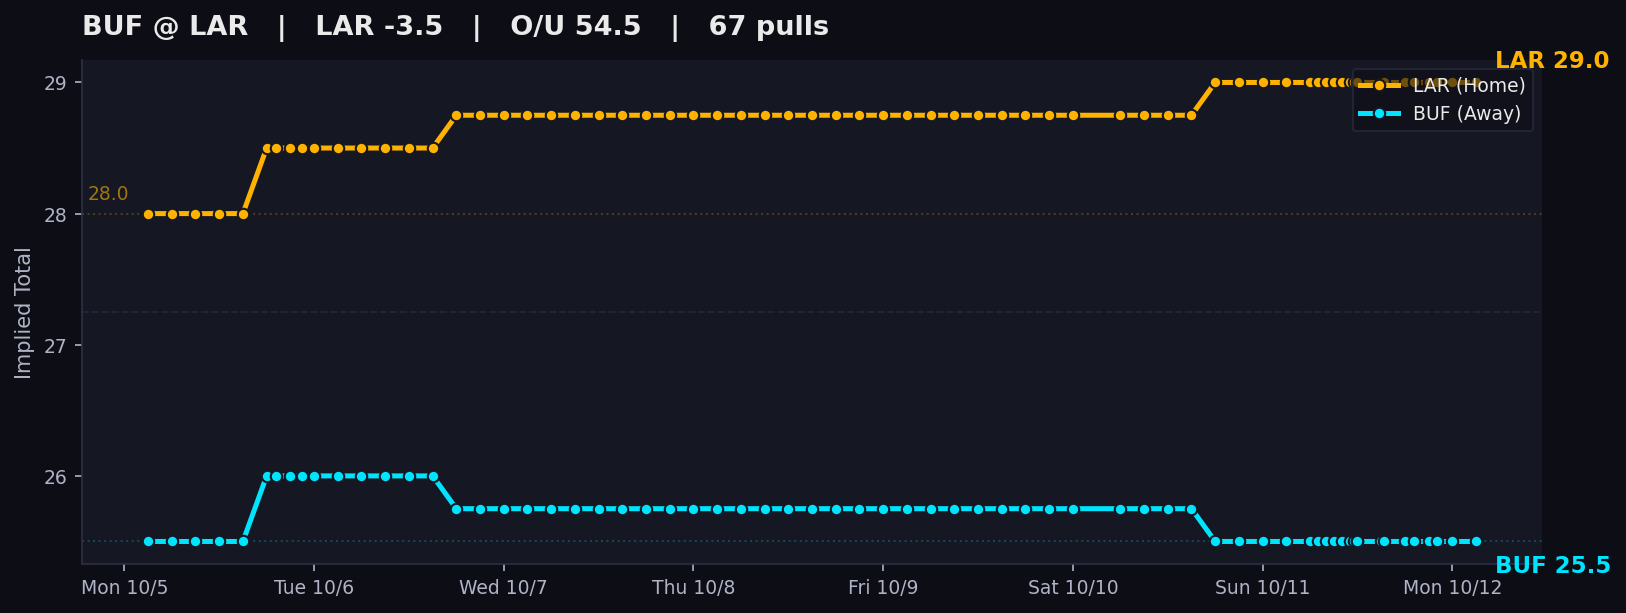
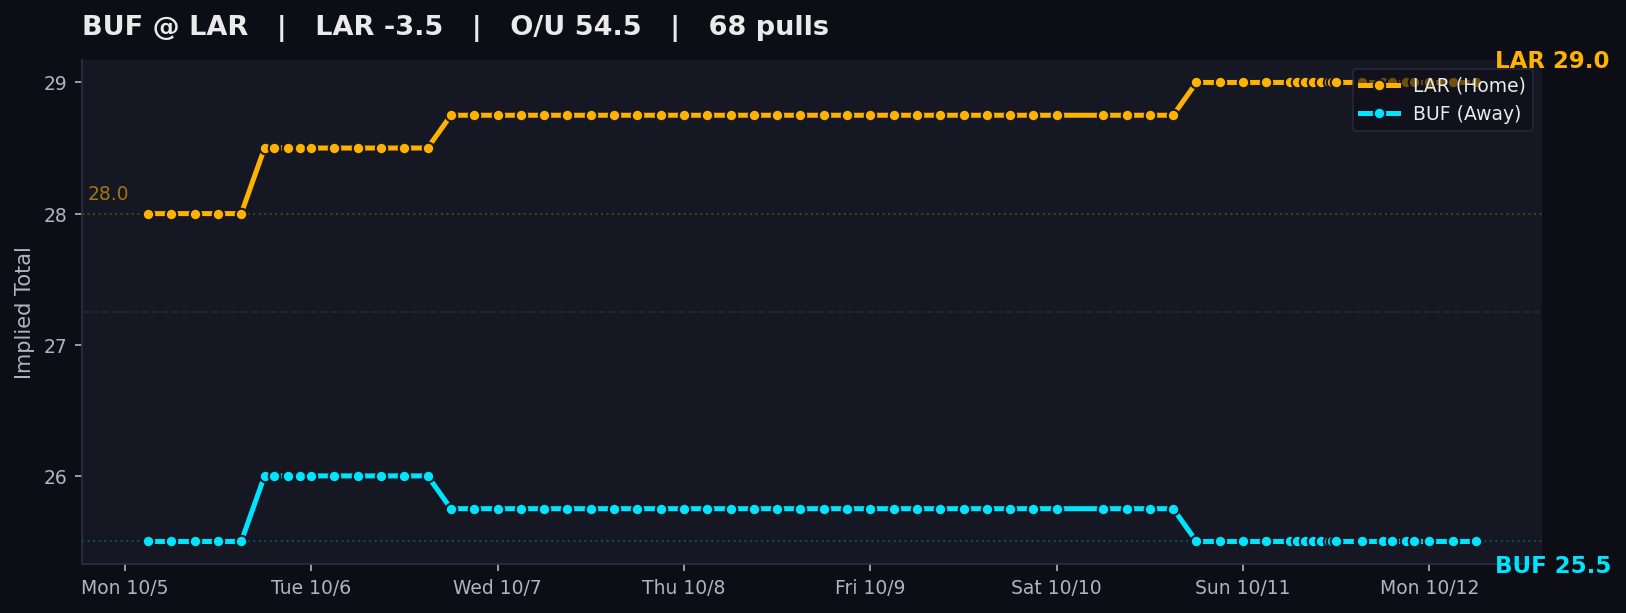
auto: local tracker sync

diff --git a/charts/index.html b/charts/index.html
@@ -311,7 +311,7 @@
     </div>
     <p class='sub'>
       DraftKings main lines &middot; Pinnacle cross-check &middot; Updated by the local Mac tracker<br>
-      Page rendered Mon Oct 12, 2026 3:00 AM CDT &middot; 1081 valid chart dots &middot; 1182 total pull attempts
+      Page rendered Mon Oct 12, 2026 6:00 AM CDT &middot; 1082 valid chart dots &middot; 1183 total pull attempts
       <span class='legend-box'>
         <span class='dot-teal'>● Away implied total</span>
         <span class='dot-amber'>● Home implied total</span>
@@ -324,9 +324,9 @@
     </details>
   </header>
 
-  <div id='feed-banner' class='alert-banner healthy' data-banner-kind='healthy' data-feed-ts='2026-10-12T08:00:01.472347+00:00' data-feed-ts-label='Mon Oct 12, 3:00 AM CDT'>
+  <div id='feed-banner' class='alert-banner healthy' data-banner-kind='healthy' data-feed-ts='2026-10-12T11:00:01.186177+00:00' data-feed-ts-label='Mon Oct 12, 6:00 AM CDT'>
             <span class='status-dot'></span>
-            <b>Feed Healthy:</b> All 1 open markets updated. 14 games have started and is showing its final verified pregame line. Board age based on oldest open market: <span id='feed-time'>Mon Oct 12, 3:00 AM CDT</span> (<span id='feed-age-dynamic'>just now</span>).
+            <b>Feed Healthy:</b> All 1 open markets updated. 14 games have started and is showing its final verified pregame line. Board age based on oldest open market: <span id='feed-time'>Mon Oct 12, 6:00 AM CDT</span> (<span id='feed-age-dynamic'>just now</span>).
         </div>
 
   <nav class='filter-bar' aria-label='Filter games by slate'>
@@ -396,7 +396,7 @@
                 <div><span>Last valid pull</span><strong>Thu 6:00 PM CT</strong></div>
                 <div><span>Chart dots</span><strong>69</strong></div>
             </div>
-                    <img class='expanded-chart' src='TB_DAL.png?v=1791792018' alt='TB at DAL line movement chart'>
+                    <img class='expanded-chart' src='TB_DAL.png?v=1791802817' alt='TB at DAL line movement chart'>
                     <p class='movement-note'>Total 47.5 → 49.5</p>
                 </div>
             </td>
@@ -437,7 +437,7 @@
                 <div><span>Last valid pull</span><strong>Sun 8:00 AM CT</strong></div>
                 <div><span>Chart dots</span><strong>71</strong></div>
             </div>
-                    <img class='expanded-chart' src='PHI_JAX.png?v=1791792018' alt='PHI at JAX line movement chart'>
+                    <img class='expanded-chart' src='PHI_JAX.png?v=1791802817' alt='PHI at JAX line movement chart'>
                     <p class='movement-note'>Spread JAX -3.0 → -7.5; Total 44.5 → 41.5</p>
                 </div>
             </td>
@@ -478,7 +478,7 @@
                 <div><span>Last valid pull</span><strong>Sun 12:00 PM CT</strong></div>
                 <div><span>Chart dots</span><strong>75</strong></div>
             </div>
-                    <img class='expanded-chart' src='CHI_GB.png?v=1791792018' alt='CHI at GB line movement chart'>
+                    <img class='expanded-chart' src='CHI_GB.png?v=1791802817' alt='CHI at GB line movement chart'>
                     <p class='movement-note'>Spread CHI +2.5 → -1.5; Total 45.5 → 46.5</p>
                 </div>
             </td>
@@ -513,7 +513,7 @@
                 <div><span>Last valid pull</span><strong>Sun 12:00 PM CT</strong></div>
                 <div><span>Chart dots</span><strong>64</strong></div>
             </div>
-                    <img class='expanded-chart' src='IND_PIT.png?v=1791792018' alt='IND at PIT line movement chart'>
+                    <img class='expanded-chart' src='IND_PIT.png?v=1791802817' alt='IND at PIT line movement chart'>
                     <p class='movement-note'>Spread PIT -2.5 → -3.0; Total 44.5 → 41.5</p>
                 </div>
             </td>
@@ -548,7 +548,7 @@
                 <div><span>Last valid pull</span><strong>Sun 12:00 PM CT</strong></div>
                 <div><span>Chart dots</span><strong>73</strong></div>
             </div>
-                    <img class='expanded-chart' src='MIN_NO.png?v=1791792018' alt='MIN at NO line movement chart'>
+                    <img class='expanded-chart' src='MIN_NO.png?v=1791802817' alt='MIN at NO line movement chart'>
                     <p class='movement-note'>Total 44.5 → 41.5</p>
                 </div>
             </td>
@@ -583,7 +583,7 @@
                 <div><span>Last valid pull</span><strong>Sun 12:00 PM CT</strong></div>
                 <div><span>Chart dots</span><strong>68</strong></div>
             </div>
-                    <img class='expanded-chart' src='NYG_WAS.png?v=1791792018' alt='NYG at WAS line movement chart'>
+                    <img class='expanded-chart' src='NYG_WAS.png?v=1791802817' alt='NYG at WAS line movement chart'>
                     <p class='movement-note'>Spread WAS -2.5 → -3.5; Total 43.5 → 41.5</p>
                 </div>
             </td>
@@ -618,7 +618,7 @@
                 <div><span>Last valid pull</span><strong>Sun 12:00 PM CT</strong></div>
                 <div><span>Chart dots</span><strong>75</strong></div>
             </div>
-                    <img class='expanded-chart' src='CIN_MIA.png?v=1791792018' alt='CIN at MIA line movement chart'>
+                    <img class='expanded-chart' src='CIN_MIA.png?v=1791802817' alt='CIN at MIA line movement chart'>
                     <p class='movement-note'>Spread CIN -8.5 → -7.0; Total 46.5 → 44.5</p>
                 </div>
             </td>
@@ -653,7 +653,7 @@
                 <div><span>Last valid pull</span><strong>Sun 12:00 PM CT</strong></div>
                 <div><span>Chart dots</span><strong>75</strong></div>
             </div>
-                    <img class='expanded-chart' src='HOU_TEN.png?v=1791792018' alt='HOU at TEN line movement chart'>
+                    <img class='expanded-chart' src='HOU_TEN.png?v=1791802817' alt='HOU at TEN line movement chart'>
                     <p class='movement-note'>Total 39.5 → 37.5</p>
                 </div>
             </td>
@@ -688,7 +688,7 @@
                 <div><span>Last valid pull</span><strong>Sun 12:00 PM CT</strong></div>
                 <div><span>Chart dots</span><strong>64</strong></div>
             </div>
-                    <img class='expanded-chart' src='CLE_NYJ.png?v=1791792018' alt='CLE at NYJ line movement chart'>
+                    <img class='expanded-chart' src='CLE_NYJ.png?v=1791802817' alt='CLE at NYJ line movement chart'>
                     <p class='movement-note'>Spread NYJ -1.5 → -2.5; Total 39.5 → 38.5</p>
                 </div>
             </td>
@@ -723,7 +723,7 @@
                 <div><span>Last valid pull</span><strong>Sun 12:00 PM CT</strong></div>
                 <div><span>Chart dots</span><strong>75</strong></div>
             </div>
-                    <img class='expanded-chart' src='LVR_NE.png?v=1791792018' alt='LVR at NE line movement chart'>
+                    <img class='expanded-chart' src='LVR_NE.png?v=1791802817' alt='LVR at NE line movement chart'>
                     <p class='movement-note'>Total 44.5 → 45.5</p>
                 </div>
             </td>
@@ -764,7 +764,7 @@
                 <div><span>Last valid pull</span><strong>Sun 3:20 PM CT</strong></div>
                 <div><span>Chart dots</span><strong>77</strong></div>
             </div>
-                    <img class='expanded-chart' src='DET_ARI.png?v=1791792018' alt='DET at ARI line movement chart'>
+                    <img class='expanded-chart' src='DET_ARI.png?v=1791802817' alt='DET at ARI line movement chart'>
                     <p class='movement-note'>Total 52.5 → 55.5</p>
                 </div>
             </td>
@@ -799,7 +799,7 @@
                 <div><span>Last valid pull</span><strong>Sun 3:20 PM CT</strong></div>
                 <div><span>Chart dots</span><strong>79</strong></div>
             </div>
-                    <img class='expanded-chart' src='SF_SEA.png?v=1791792018' alt='SF at SEA line movement chart'>
+                    <img class='expanded-chart' src='SF_SEA.png?v=1791802817' alt='SF at SEA line movement chart'>
                     <p class='movement-note'>Total 47.5 → 45.5</p>
                 </div>
             </td>
@@ -834,7 +834,7 @@
                 <div><span>Last valid pull</span><strong>Sun 3:00 PM CT</strong></div>
                 <div><span>Chart dots</span><strong>73</strong></div>
             </div>
-                    <img class='expanded-chart' src='DEN_LAC.png?v=1791792018' alt='DEN at LAC line movement chart'>
+                    <img class='expanded-chart' src='DEN_LAC.png?v=1791802817' alt='DEN at LAC line movement chart'>
                     <p class='movement-note'>Spread DEN -2.5 → -3.5; Total 43.5 → 42.5</p>
                 </div>
             </td>
@@ -875,7 +875,7 @@
                 <div><span>Last valid pull</span><strong>Sun 7:10 PM CT</strong></div>
                 <div><span>Chart dots</span><strong>76</strong></div>
             </div>
-                    <img class='expanded-chart' src='BAL_ATL.png?v=1791792018' alt='BAL at ATL line movement chart'>
+                    <img class='expanded-chart' src='BAL_ATL.png?v=1791802817' alt='BAL at ATL line movement chart'>
                     <p class='movement-note'>Spread ATL +6.0 → -3.5; Total 49.5 → 43.5</p>
                 </div>
             </td>
@@ -896,8 +896,8 @@
             <td class='it-away'>BUF 25.5</td>
             <td class='it-home'>LAR 29.0</td>
             <td class='reason' title='Spread LAR -2.5 → -3.5; Total 53.5 → 54.5'>Spread LAR -2.5 → -3.5; Total 53.5 → 54.5</td>
-            <td style='text-align:center;'><span class='pill-fresh'>3:00 AM CT</span></td>
-            <td class='snaps'>67</td>
+            <td style='text-align:center;'><span class='pill-fresh'>6:00 AM CT</span></td>
+            <td class='snaps'>68</td>
         </tr>
         <tr id='desktop-panel-BUF_LAR' class='chart-detail-row' data-slate='MNF' data-game-panel='BUF_LAR' hidden>
             <td colspan='12'>
@@ -913,10 +913,10 @@
                 <div><span>Current total</span><strong>54.5</strong></div>
                 <div><span>Away implied</span><strong class='it-away'>BUF 25.5</strong></div>
                 <div><span>Home implied</span><strong class='it-home'>LAR 29.0</strong></div>
-                <div><span>Last valid pull</span><strong>3:00 AM CT</strong></div>
-                <div><span>Chart dots</span><strong>67</strong></div>
+                <div><span>Last valid pull</span><strong>6:00 AM CT</strong></div>
+                <div><span>Chart dots</span><strong>68</strong></div>
             </div>
-                    <img class='expanded-chart' src='BUF_LAR.png?v=1791792018' alt='BUF at LAR line movement chart'>
+                    <img class='expanded-chart' src='BUF_LAR.png?v=1791802817' alt='BUF at LAR line movement chart'>
                     <p class='movement-note'>Spread LAR -2.5 → -3.5; Total 53.5 → 54.5</p>
                 </div>
             </td>
@@ -951,7 +951,7 @@
                 <div><span>Last valid pull</span><strong>Thu 6:00 PM CT</strong></div>
                 <div><span>Chart dots</span><strong>69</strong></div>
             </div>
-                <img class='expanded-chart' src='TB_DAL.png?v=1791792018' alt='TB at DAL line movement chart'>
+                <img class='expanded-chart' src='TB_DAL.png?v=1791802817' alt='TB at DAL line movement chart'>
                 <p class='pull-note'><span class='pull-dot'></span> Every dot is a valid completed pull · 69 chart dots</p>
             </div>
         </article><article class='mobile-game-card closed-game' data-slate='OTHER_PRIMETIME' data-game='PHI_JAX'>
@@ -978,7 +978,7 @@
                 <div><span>Last valid pull</span><strong>Sun 8:00 AM CT</strong></div>
                 <div><span>Chart dots</span><strong>71</strong></div>
             </div>
-                <img class='expanded-chart' src='PHI_JAX.png?v=1791792018' alt='PHI at JAX line movement chart'>
+                <img class='expanded-chart' src='PHI_JAX.png?v=1791802817' alt='PHI at JAX line movement chart'>
                 <p class='pull-note'><span class='pull-dot'></span> Every dot is a valid completed pull · 71 chart dots</p>
             </div>
         </article><article class='mobile-game-card closed-game' data-slate='SUN_EARLY' data-game='CHI_GB'>
@@ -1005,7 +1005,7 @@
                 <div><span>Last valid pull</span><strong>Sun 12:00 PM CT</strong></div>
                 <div><span>Chart dots</span><strong>75</strong></div>
             </div>
-                <img class='expanded-chart' src='CHI_GB.png?v=1791792018' alt='CHI at GB line movement chart'>
+                <img class='expanded-chart' src='CHI_GB.png?v=1791802817' alt='CHI at GB line movement chart'>
                 <p class='pull-note'><span class='pull-dot'></span> Every dot is a valid completed pull · 75 chart dots</p>
             </div>
         </article><article class='mobile-game-card closed-game' data-slate='SUN_EARLY' data-game='IND_PIT'>
@@ -1032,7 +1032,7 @@
                 <div><span>Last valid pull</span><strong>Sun 12:00 PM CT</strong></div>
                 <div><span>Chart dots</span><strong>64</strong></div>
             </div>
-                <img class='expanded-chart' src='IND_PIT.png?v=1791792018' alt='IND at PIT line movement chart'>
+                <img class='expanded-chart' src='IND_PIT.png?v=1791802817' alt='IND at PIT line movement chart'>
                 <p class='pull-note'><span class='pull-dot'></span> Every dot is a valid completed pull · 64 chart dots</p>
             </div>
         </article><article class='mobile-game-card closed-game' data-slate='SUN_EARLY' data-game='MIN_NO'>
@@ -1059,7 +1059,7 @@
                 <div><span>Last valid pull</span><strong>Sun 12:00 PM CT</strong></div>
                 <div><span>Chart dots</span><strong>73</strong></div>
             </div>
-                <img class='expanded-chart' src='MIN_NO.png?v=1791792018' alt='MIN at NO line movement chart'>
+                <img class='expanded-chart' src='MIN_NO.png?v=1791802817' alt='MIN at NO line movement chart'>
                 <p class='pull-note'><span class='pull-dot'></span> Every dot is a valid completed pull · 73 chart dots</p>
             </div>
         </article><article class='mobile-game-card closed-game' data-slate='SUN_EARLY' data-game='NYG_WAS'>
@@ -1086,7 +1086,7 @@
                 <div><span>Last valid pull</span><strong>Sun 12:00 PM CT</strong></div>
                 <div><span>Chart dots</span><strong>68</strong></div>
             </div>
-                <img class='expanded-chart' src='NYG_WAS.png?v=1791792018' alt='NYG at WAS line movement chart'>
+                <img class='expanded-chart' src='NYG_WAS.png?v=1791802817' alt='NYG at WAS line movement chart'>
                 <p class='pull-note'><span class='pull-dot'></span> Every dot is a valid completed pull · 68 chart dots</p>
             </div>
         </article><article class='mobile-game-card closed-game' data-slate='SUN_EARLY' data-game='CIN_MIA'>
@@ -1113,7 +1113,7 @@
                 <div><span>Last valid pull</span><strong>Sun 12:00 PM CT</strong></div>
                 <div><span>Chart dots</span><strong>75</strong></div>
             </div>
-                <img class='expanded-chart' src='CIN_MIA.png?v=1791792018' alt='CIN at MIA line movement chart'>
+                <img class='expanded-chart' src='CIN_MIA.png?v=1791802817' alt='CIN at MIA line movement chart'>
                 <p class='pull-note'><span class='pull-dot'></span> Every dot is a valid completed pull · 75 chart dots</p>
             </div>
         </article><article class='mobile-game-card closed-game' data-slate='SUN_EARLY' data-game='HOU_TEN'>
@@ -1140,7 +1140,7 @@
                 <div><span>Last valid pull</span><strong>Sun 12:00 PM CT</strong></div>
                 <div><span>Chart dots</span><strong>75</strong></div>
             </div>
-                <img class='expanded-chart' src='HOU_TEN.png?v=1791792018' alt='HOU at TEN line movement chart'>
+                <img class='expanded-chart' src='HOU_TEN.png?v=1791802817' alt='HOU at TEN line movement chart'>
                 <p class='pull-note'><span class='pull-dot'></span> Every dot is a valid completed pull · 75 chart dots</p>
             </div>
         </article><article class='mobile-game-card closed-game' data-slate='SUN_EARLY' data-game='CLE_NYJ'>
@@ -1167,7 +1167,7 @@
                 <div><span>Last valid pull</span><strong>Sun 12:00 PM CT</strong></div>
                 <div><span>Chart dots</span><strong>64</strong></div>
             </div>
-                <img class='expanded-chart' src='CLE_NYJ.png?v=1791792018' alt='CLE at NYJ line movement chart'>
+                <img class='expanded-chart' src='CLE_NYJ.png?v=1791802817' alt='CLE at NYJ line movement chart'>
                 <p class='pull-note'><span class='pull-dot'></span> Every dot is a valid completed pull · 64 chart dots</p>
             </div>
         </article><article class='mobile-game-card closed-game' data-slate='SUN_EARLY' data-game='LVR_NE'>
@@ -1194,7 +1194,7 @@
                 <div><span>Last valid pull</span><strong>Sun 12:00 PM CT</strong></div>
                 <div><span>Chart dots</span><strong>75</strong></div>
             </div>
-                <img class='expanded-chart' src='LVR_NE.png?v=1791792018' alt='LVR at NE line movement chart'>
+                <img class='expanded-chart' src='LVR_NE.png?v=1791802817' alt='LVR at NE line movement chart'>
                 <p class='pull-note'><span class='pull-dot'></span> Every dot is a valid completed pull · 75 chart dots</p>
             </div>
         </article><article class='mobile-game-card closed-game' data-slate='SUN_LATE' data-game='DET_ARI'>
@@ -1221,7 +1221,7 @@
                 <div><span>Last valid pull</span><strong>Sun 3:20 PM CT</strong></div>
                 <div><span>Chart dots</span><strong>77</strong></div>
             </div>
-                <img class='expanded-chart' src='DET_ARI.png?v=1791792018' alt='DET at ARI line movement chart'>
+                <img class='expanded-chart' src='DET_ARI.png?v=1791802817' alt='DET at ARI line movement chart'>
                 <p class='pull-note'><span class='pull-dot'></span> Every dot is a valid completed pull · 77 chart dots</p>
             </div>
         </article><article class='mobile-game-card closed-game' data-slate='SUN_LATE' data-game='SF_SEA'>
@@ -1248,7 +1248,7 @@
                 <div><span>Last valid pull</span><strong>Sun 3:20 PM CT</strong></div>
                 <div><span>Chart dots</span><strong>79</strong></div>
             </div>
-                <img class='expanded-chart' src='SF_SEA.png?v=1791792018' alt='SF at SEA line movement chart'>
+                <img class='expanded-chart' src='SF_SEA.png?v=1791802817' alt='SF at SEA line movement chart'>
                 <p class='pull-note'><span class='pull-dot'></span> Every dot is a valid completed pull · 79 chart dots</p>
             </div>
         </article><article class='mobile-game-card closed-game' data-slate='SUN_LATE' data-game='DEN_LAC'>
@@ -1275,7 +1275,7 @@
                 <div><span>Last valid pull</span><strong>Sun 3:00 PM CT</strong></div>
                 <div><span>Chart dots</span><strong>73</strong></div>
             </div>
-                <img class='expanded-chart' src='DEN_LAC.png?v=1791792018' alt='DEN at LAC line movement chart'>
+                <img class='expanded-chart' src='DEN_LAC.png?v=1791802817' alt='DEN at LAC line movement chart'>
                 <p class='pull-note'><span class='pull-dot'></span> Every dot is a valid completed pull · 73 chart dots</p>
             </div>
         </article><article class='mobile-game-card closed-game' data-slate='SNF' data-game='BAL_ATL'>
@@ -1302,7 +1302,7 @@
                 <div><span>Last valid pull</span><strong>Sun 7:10 PM CT</strong></div>
                 <div><span>Chart dots</span><strong>76</strong></div>
             </div>
-                <img class='expanded-chart' src='BAL_ATL.png?v=1791792018' alt='BAL at ATL line movement chart'>
+                <img class='expanded-chart' src='BAL_ATL.png?v=1791802817' alt='BAL at ATL line movement chart'>
                 <p class='pull-note'><span class='pull-dot'></span> Every dot is a valid completed pull · 76 chart dots</p>
             </div>
         </article><article class='mobile-game-card ' data-slate='MNF' data-game='BUF_LAR'>
@@ -1326,11 +1326,11 @@
                 <div><span>Current total</span><strong>54.5</strong></div>
                 <div><span>Away implied</span><strong class='it-away'>BUF 25.5</strong></div>
                 <div><span>Home implied</span><strong class='it-home'>LAR 29.0</strong></div>
-                <div><span>Last valid pull</span><strong>3:00 AM CT</strong></div>
-                <div><span>Chart dots</span><strong>67</strong></div>
+                <div><span>Last valid pull</span><strong>6:00 AM CT</strong></div>
+                <div><span>Chart dots</span><strong>68</strong></div>
             </div>
-                <img class='expanded-chart' src='BUF_LAR.png?v=1791792018' alt='BUF at LAR line movement chart'>
-                <p class='pull-note'><span class='pull-dot'></span> Every dot is a valid completed pull · 67 chart dots</p>
+                <img class='expanded-chart' src='BUF_LAR.png?v=1791802817' alt='BUF at LAR line movement chart'>
+                <p class='pull-note'><span class='pull-dot'></span> Every dot is a valid completed pull · 68 chart dots</p>
             </div>
         </article>
   </section>
